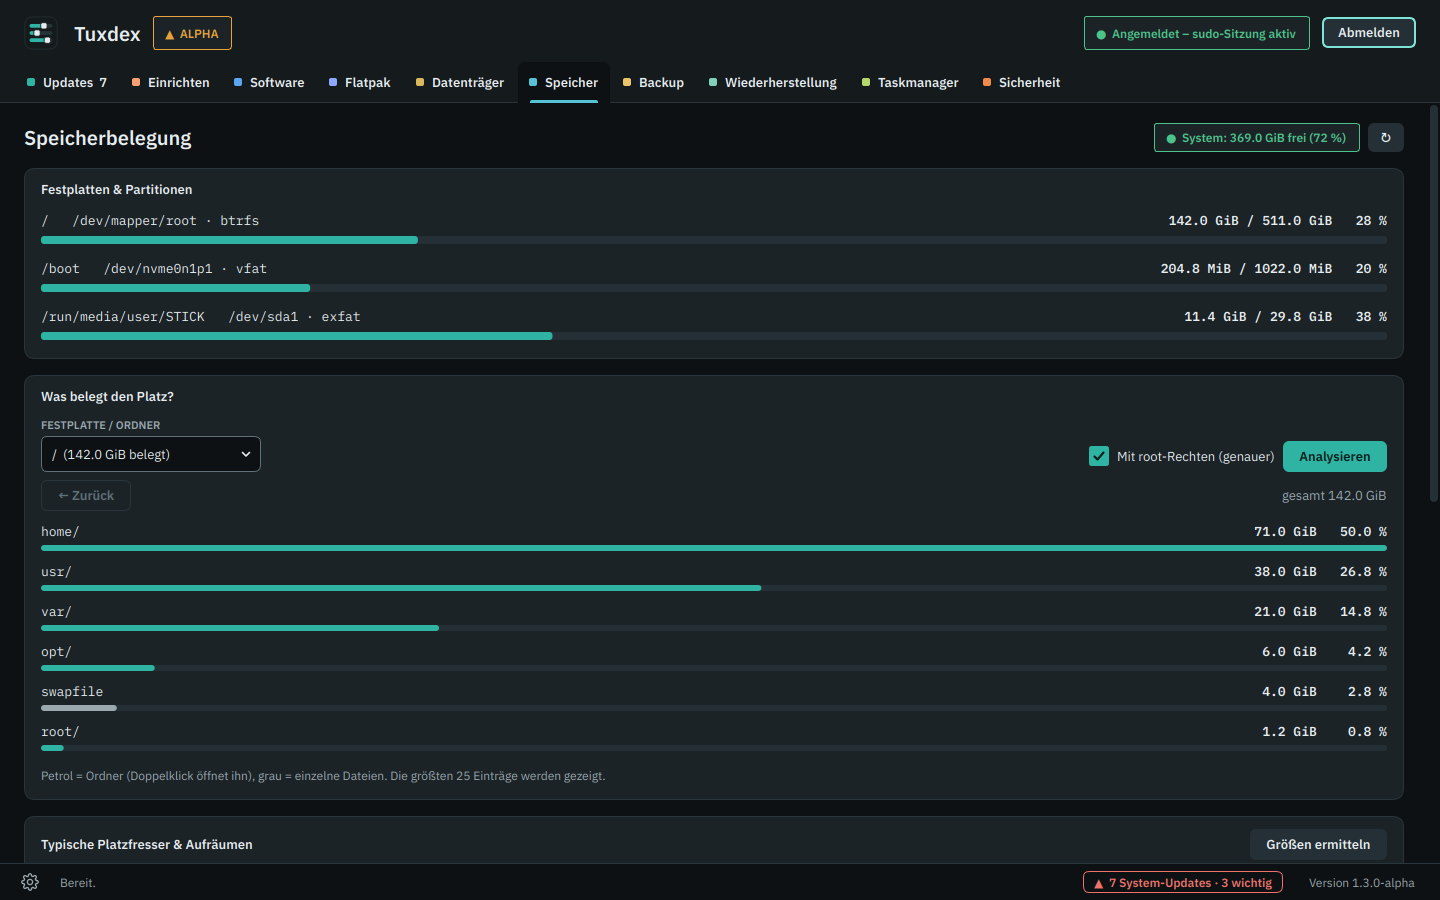
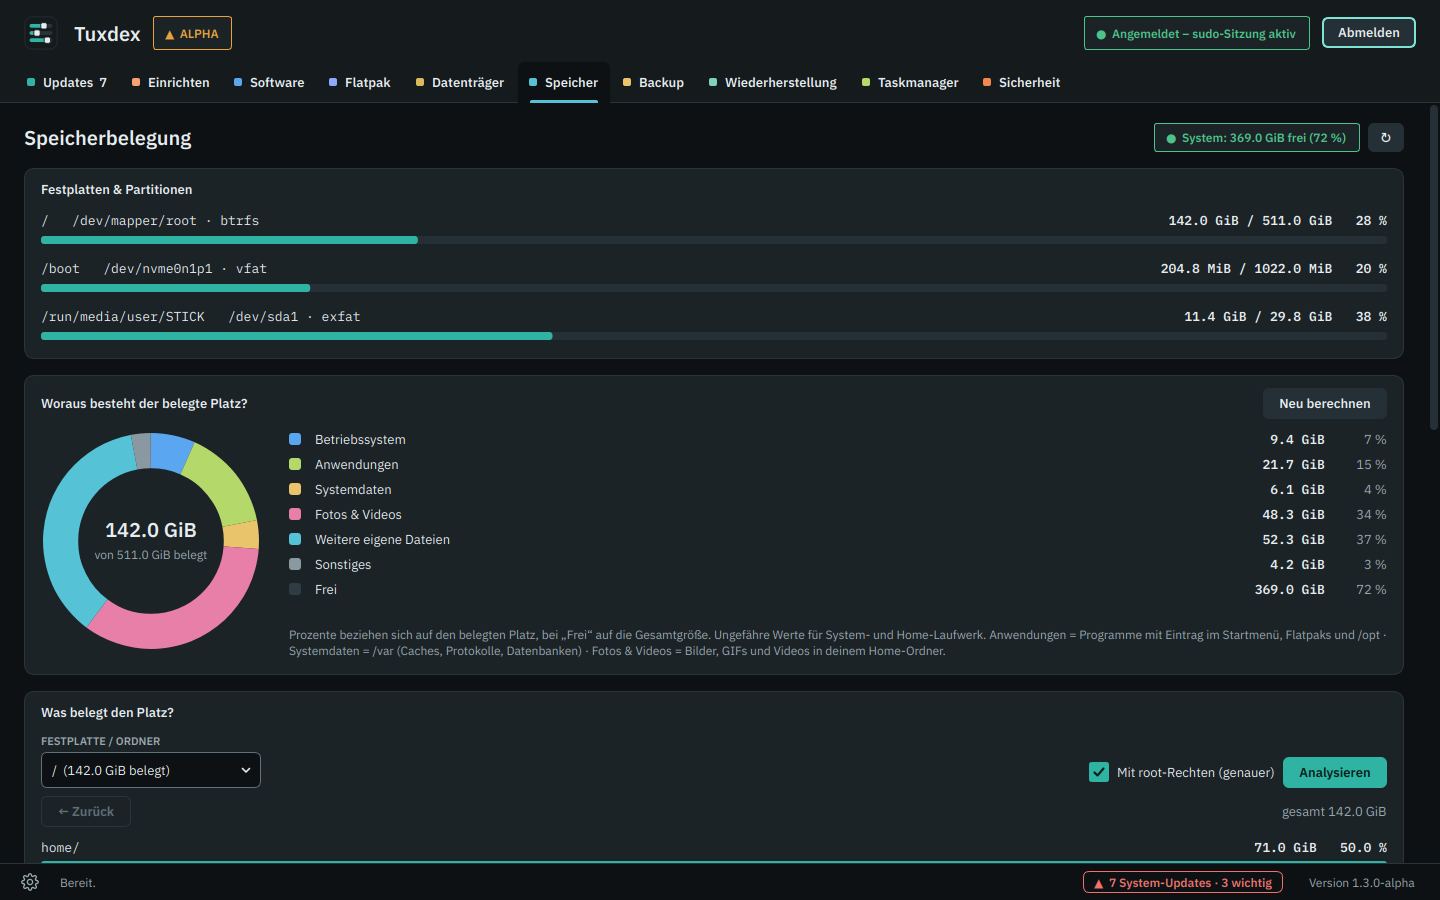
Speicher: Tortendiagramm (Betriebssystem, Anwendungen, Systemdaten, Fotos & Videos, eigene Dateien)
Claude-Session: https://claude.ai/code/session_017wi3Gc73jpwGLcggnDotTD

diff --git a/tuxdex.py b/tuxdex.py
@@ -5251,6 +5251,141 @@ def _du_size(path, use_sudo, timeout=120):
 _SIZE_UNITS = {"B": 1, "KiB": 1024, "MiB": 1024 ** 2, "GiB": 1024 ** 3, "TiB": 1024 ** 4}
 
 
+# Kategorien fürs Tortendiagramm: (Kennung, Titel, Farbe)
+STORAGE_CATS = [
+    ("os", "Betriebssystem", "#5aa6f0"),
+    ("apps", "Anwendungen", "#b5d86b"),
+    ("sys", "Systemdaten", "#e9c46a"),
+    ("media", "Fotos & Videos", "#e87fa8"),
+    ("home", "Weitere eigene Dateien", "#56c2d6"),
+    ("other", "Sonstiges", "#8a99a1"),
+    ("free", "Frei", "#2f3c43"),
+]
+MEDIA_EXT = ("jpg", "jpeg", "png", "gif", "webp", "heic", "heif", "avif", "bmp", "tif", "tiff", "svg", "raw",
+             "cr2", "cr3", "nef", "arw", "dng", "orf", "rw2", "mp4", "mkv", "mov", "avi", "webm", "m4v", "wmv",
+             "mts", "m2ts", "3gp", "flv")
+
+
+def _fs_usage(path):
+    try:
+        st = os.statvfs(path)
+        return (st.f_blocks - st.f_bfree) * st.f_frsize, st.f_bavail * st.f_frsize, os.stat(path).st_dev
+    except OSError:
+        return 0, 0, None
+
+
+def _media_bytes(home):
+    """Summe aller Bilder, GIFs und Videos im Home (versteckte Ordner wie ~/.cache zählen nicht)."""
+    names = []
+    for ext in MEDIA_EXT:
+        names += ["-iname", f"*.{ext}", "-o"]
+    cmd = ["find", home, "-xdev", "(", "-path", "*/.*", "-prune", ")", "-o", "-type", "f",
+           "(", *names[:-1], ")", "-printf", "%s\n"]
+    total = 0
+    try:
+        with subprocess.Popen(cmd, stdout=subprocess.PIPE, stderr=subprocess.DEVNULL, text=True) as p:
+            for line in p.stdout:
+                if line.strip().isdigit():
+                    total += int(line)
+    except Exception:
+        pass
+    return total
+
+
+def _gui_app_packages():
+    """pacman-Pakete, die ein Programm im Startmenü mitbringen (.desktop-Datei) – „Anwendungen“."""
+    files = [os.path.join("/usr/share/applications", f) for f in _listdir("/usr/share/applications")
+             if f.endswith(".desktop")]
+    if not files:
+        return []
+    out = _cmd_out(["env", "LC_ALL=C", "pacman", "-Qqo"] + files, timeout=60)
+    return sorted(set(out.split()))
+
+
+def _listdir(path):
+    try:
+        return os.listdir(path)
+    except OSError:
+        return []
+
+
+def storage_breakdown(use_sudo=False):
+    """{Kennung: Bytes} – ungefähre Aufteilung von System- und Home-Laufwerk."""
+    home = os.path.expanduser("~")
+    used = free = 0
+    devs = set()
+    for mp in ("/", home):
+        u, f, dev = _fs_usage(mp)
+        if dev is not None and dev not in devs:
+            devs.add(dev)
+            used, free = used + u, free + f
+    flat = sum(_du_size(p, use_sudo) or 0 for p in ("/var/lib/flatpak", os.path.join(home, ".local/share/flatpak"))
+               if os.path.isdir(p))
+    apps_pkgs = _gui_app_packages()
+    apps_pac = sum(i["size"] for i in pacman_infos(apps_pkgs).values()) if apps_pkgs else 0
+    opt = _du_size("/opt", use_sudo) or 0 if os.path.isdir("/opt") else 0
+    system_tree = sum(_du_size(p, use_sudo) or 0 for p in ("/usr", "/boot", "/etc"))
+    var = _du_size("/var", use_sudo) or 0
+    home_all = _du_size(home, False) or 0
+    media = min(_media_bytes(home), home_all)
+    res = {
+        "apps": apps_pac + flat + opt,
+        "os": max(system_tree - apps_pac, 0),
+        "sys": max(var - (flat if os.path.isdir("/var/lib/flatpak") else 0), 0),
+        "media": media,
+        "home": max(home_all - media - (_du_size(os.path.join(home, ".local/share/flatpak"), False) or 0), 0),
+    }
+    res["other"] = max(used - sum(res.values()), 0)
+    res["free"] = free
+    return res
+
+
+class DonutChart(QWidget):
+    """Ring-Diagramm: data = [(Titel, Bytes, Farbe)]; in der Mitte steht der belegte Platz."""
+
+    def __init__(self, size=220):
+        super().__init__()
+        self.data = []
+        self.center = ("", "")
+        self.setFixedSize(size, size)
+
+    def set_data(self, data, center=("", "")):
+        self.data, self.center = data, center
+        self.update()
+
+    def paintEvent(self, e):
+        p = QPainter(self)
+        p.setRenderHint(QPainter.Antialiasing)
+        w = self.width()
+        ring = w * 0.16
+        rect = QRectF(ring / 2 + 2, ring / 2 + 2, w - ring - 4, w - ring - 4)
+        total = sum(v for _, v, _ in self.data)
+        if total <= 0:
+            pen = QPen(QColor(COLORS["bg3"]), ring)
+            pen.setCapStyle(Qt.FlatCap)
+            p.setPen(pen)
+            p.drawArc(rect, 0, 360 * 16)
+        else:
+            start = 90 * 16
+            for _, v, color in self.data:
+                span = -round(v / total * 360 * 16)
+                if span:
+                    pen = QPen(QColor(color), ring)
+                    pen.setCapStyle(Qt.FlatCap)
+                    p.setPen(pen)
+                    p.drawArc(rect, start, span)
+                    start += span
+        big = QFont(FONTS["sans"], 15)
+        big.setWeight(QFont.DemiBold)
+        p.setFont(big)
+        p.setPen(QColor(COLORS["ink"]))
+        p.drawText(QRectF(0, w / 2 - 26, w, 28), Qt.AlignCenter, self.center[0])
+        p.setFont(QFont(FONTS["sans"], 9))
+        p.setPen(QColor(COLORS["muted"]))
+        p.drawText(QRectF(0, w / 2 + 2, w, 22), Qt.AlignCenter, self.center[1])
+        p.end()
+
+
 class StorageTab(Page):
     def __init__(self, app):
         super().__init__()
@@ -5268,6 +5403,26 @@ class StorageTab(Page):
         self.fs_box.setSpacing(12)
         fsp.body.addLayout(self.fs_box)
         self.lay.addWidget(fsp)
+
+        self.b_pie = Button("Neu berechnen", "ghost", self.refresh_pie)
+        pie = Panel("Woraus besteht der belegte Platz?", [self.b_pie])
+        prow = QHBoxLayout()
+        prow.setSpacing(28)
+        self.donut = DonutChart()
+        prow.addWidget(self.donut, 0, Qt.AlignTop)
+        self.pie_legend = QGridLayout()
+        self.pie_legend.setHorizontalSpacing(14)
+        self.pie_legend.setVerticalSpacing(8)
+        self.pie_legend.setColumnStretch(1, 1)
+        leg = QVBoxLayout()
+        leg.addLayout(self.pie_legend)
+        self.pie_hint = Label("", "Hint", wrap=True)
+        leg.addWidget(self.pie_hint)
+        leg.addStretch(1)
+        prow.addLayout(leg, 1)
+        pie.body.addLayout(prow)
+        self.lay.addWidget(pie)
+        self.pie_done = False
 
         ana = Panel("Was belegt den Platz?")
         top = QHBoxLayout()
@@ -5344,6 +5499,55 @@ class StorageTab(Page):
 
         self._build_cleanup_rows()
         self.refresh_fs()
+        self.refresh_pie()
+
+    # ---- Tortendiagramm -------------------------------------------------
+
+    def refresh_pie(self):
+        self.b_pie.setEnabled(False)
+        self.pie_hint.setText("Wird berechnet … das kann bei vielen Dateien eine Minute dauern.")
+        use_sudo = self.app.priv.is_authenticated_nonblocking() if hasattr(self.app, "priv") else False
+
+        def worker():
+            try:
+                data = storage_breakdown(use_sudo)
+            except Exception as ex:
+                data = {"_error": str(ex)}
+            ui(lambda: self._show_pie(data, use_sudo))
+        threading.Thread(target=worker, daemon=True).start()
+
+    def _show_pie(self, data, use_sudo):
+        self.b_pie.setEnabled(True)
+        clear_layout(self.pie_legend)
+        if "_error" in data:
+            self.pie_hint.setText(f"Konnte nicht berechnet werden: {data['_error']}")
+            return
+        used = sum(v for k, v in data.items() if k != "free")
+        total = used + data.get("free", 0)
+        # Ring zeigt nur den belegten Platz – sonst gehen die Kategorien neben „Frei“ unter
+        rows = [(title, data.get(key, 0), color) for key, title, color in STORAGE_CATS if key != "free"]
+        self.donut.set_data(list(rows), (fmt_bytes(used), f"von {fmt_bytes(total)} belegt"))
+        rows.append(("Frei", data.get("free", 0), STORAGE_CATS[-1][2]))
+        for i, (title, val, color) in enumerate(rows):
+            dot = QLabel()
+            dot.setFixedSize(12, 12)
+            dot.setStyleSheet(f"background:{color}; border-radius:3px;")
+            self.pie_legend.addWidget(dot, i, 0, Qt.AlignVCenter)
+            self.pie_legend.addWidget(Label(title), i, 1)
+            v = Label(fmt_bytes(val), "Value")
+            v.setAlignment(Qt.AlignRight | Qt.AlignVCenter)
+            self.pie_legend.addWidget(v, i, 2)
+            base = total if title == "Frei" else used
+            pct = Label(f"{val / base * 100:.0f} %" if base else "—", "Muted")
+            pct.setMinimumWidth(48)
+            pct.setAlignment(Qt.AlignRight | Qt.AlignVCenter)
+            self.pie_legend.addWidget(pct, i, 3)
+        self.pie_hint.setText(
+            "Prozente beziehen sich auf den belegten Platz, bei „Frei“ auf die Gesamtgröße. "
+            "Ungefähre Werte für System- und Home-Laufwerk. Anwendungen = Programme mit Eintrag im Startmenü, "
+            "Flatpaks und /opt · Systemdaten = /var (Caches, Protokolle, Datenbanken) · Fotos & Videos = Bilder, "
+            "GIFs und Videos in deinem Home-Ordner."
+            + ("" if use_sudo else " Ohne Anmeldung sind manche Systemordner nicht lesbar – mit Anmeldung genauer."))
 
     # ---- Dateisysteme ---------------------------------------------------
 
@@ -14111,6 +14315,19 @@ class MainWindow(QWidget):
 # --------------------------------------------------------------------------
 
 EN = {
+    'Woraus besteht der belegte Platz?': 'What is taking up the space?',
+    'Neu berechnen': 'Recalculate',
+    'Anwendungen': 'Applications',
+    'Systemdaten': 'System data',
+    'Fotos & Videos': 'Photos & videos',
+    'Weitere eigene Dateien': 'Other personal files',
+    'Sonstiges': 'Other',
+    'Frei': 'Free',
+    'von {} belegt': 'of {} used',
+    'Wird berechnet … das kann bei vielen Dateien eine Minute dauern.': 'Calculating … this can take a minute with many files.',
+    'Konnte nicht berechnet werden: {}': "Couldn't be calculated: {}",
+    'Prozente beziehen sich auf den belegten Platz, bei „Frei“ auf die Gesamtgröße. Ungefähre Werte für System- und Home-Laufwerk. Anwendungen = Programme mit Eintrag im Startmenü, Flatpaks und /opt · Systemdaten = /var (Caches, Protokolle, Datenbanken) · Fotos & Videos = Bilder, GIFs und Videos in deinem Home-Ordner.': 'Percentages refer to the used space, for “Free” to the total size. Approximate values for the system and home drive. Applications = programs with a start menu entry, Flatpaks and /opt · System data = /var (caches, logs, databases) · Photos & videos = images, GIFs and videos in your home folder.',
+    'Prozente beziehen sich auf den belegten Platz, bei „Frei“ auf die Gesamtgröße. Ungefähre Werte für System- und Home-Laufwerk. Anwendungen = Programme mit Eintrag im Startmenü, Flatpaks und /opt · Systemdaten = /var (Caches, Protokolle, Datenbanken) · Fotos & Videos = Bilder, GIFs und Videos in deinem Home-Ordner. Ohne Anmeldung sind manche Systemordner nicht lesbar – mit Anmeldung genauer.': "Percentages refer to the used space, for “Free” to the total size. Approximate values for the system and home drive. Applications = programs with a start menu entry, Flatpaks and /opt · System data = /var (caches, logs, databases) · Photos & videos = images, GIFs and videos in your home folder. Without logging in, some system folders can't be read – more accurate when logged in.",
     'Installieren ({})': 'Install ({})',
     'Installieren (pacman)': 'Install (pacman)',
     'Installieren (Flatpak)': 'Install (Flatpak)',

diff --git a/tools/screenshots.py b/tools/screenshots.py
@@ -496,6 +496,10 @@ t.snapshot_env = lambda: {"fs": "btrfs", "home_separate": True, "tool": "snapper
 
 
 t.multilib_enabled = lambda: True
+_G = 1024 ** 3
+t.storage_breakdown = lambda use_sudo=False: {"os": 9.4 * _G, "apps": 21.7 * _G, "sys": 6.1 * _G,
+                                              "media": 48.3 * _G, "home": 52.3 * _G, "other": 4.2 * _G,
+                                              "free": 369.0 * _G}
 _APPS = {"browser": ("firefox.desktop", [("Chromium", "chromium.desktop"), ("Firefox", "firefox.desktop")]),
          "mail": ("thunderbird.desktop", [("Thunderbird", "thunderbird.desktop")]),
          "pdf": ("okularApplication_pdf.desktop", [("Firefox", "firefox.desktop"),

diff --git a/README.md b/README.md
@@ -61,7 +61,7 @@ Tuxdex ist ein **Baukasten**: Unter **Einstellungen → Module** wählst du selb
 | **Software** | Alle Pakete mit Icon, Version, Größe, Quelle/Ort und Installationsdatum · per Kästchen auswählen und gemeinsam deinstallieren · installieren aus pacman, AUR (paru) oder Flathub |
 | **Flatpak** | Rechte jeder Flatpak-App per Schalter – Netzwerk, Dateien & Ordner, Geräte, Ton, Bildschirm, Umgebungsvariablen, Portal-Freigaben · Regeln für alle Apps · riskante Rechte sind markiert, Änderungen hervorgehoben · Flathub einrichten, Apps starten, aktualisieren, deinstallieren |
 | **Datenträger** | Laufwerke und Partitionen als Baum · Einhängen, Aushängen, Umbenennen, Prüfen, **Formatieren** (ext4, btrfs, xfs, exFAT, FAT32, NTFS), sicher entfernen · erkennt neue USB-Sticks automatisch · System-Partitionen sind geschützt |
-| **Speicher** | Belegung je Festplatte · „Was belegt den Platz?“ mit Drill-down in Ordner · Aufräumen: Paket-Cache, verwaiste Pakete, Journal, Papierkorb, Flatpak |
+| **Speicher** | Belegung je Festplatte · **Tortendiagramm**: Betriebssystem, Anwendungen, Systemdaten, Fotos & Videos, eigene Dateien · „Was belegt den Platz?“ mit Drill-down in Ordner · Aufräumen: Paket-Cache, verwaiste Pakete, Journal, Papierkorb, Flatpak |
 | **Backup** | Snapshots (versioniert, platzsparend), Spiegel oder komprimierte Archive (zstd/xz/gzip, optional mit Passwort) · **mehrere Ziele gleichzeitig** · Prüfung nach dem Schreiben · eigene Namen mit Datum ([so geht’s](#backups-benennen)) · alte Versionen automatisch aufräumen · wiederherstellen · Zeitplan täglich/wöchentlich |
 | **Wiederherstellung** | System-Snapshots mit snapper (btrfs) oder Timeshift · **Snapshot vor jedem Update** · Liste, erstellen, löschen · **auf einen Stand zurücksetzen** per Klick |
 | **Swap** *(anfangs ausgeblendet)* | Swapfile anlegen und entfernen, Swappiness einstellen |

diff --git a/README.en.md b/README.en.md
@@ -61,7 +61,7 @@ Tuxdex is a **toolkit**: under **Settings → Modules** you choose which tools a
 | **Software** | All packages with icon, version, size, source/location and install date · select with checkboxes and uninstall together · install from pacman, AUR (paru) or Flathub |
 | **Flatpak** | Permissions of every Flatpak app with switches – network, files & folders, devices, sound, display, environment variables, portal permissions · rules for all apps · risky permissions are marked, changes highlighted · set up Flathub, start, update and uninstall apps |
 | **Drives** | Drives and partitions as a tree · mount, unmount, rename, check, **format** (ext4, btrfs, xfs, exFAT, FAT32, NTFS), safely remove · detects new USB sticks automatically · system partitions are protected |
-| **Storage** | Usage per drive · “What is using the space?” with drill-down into folders · cleanup: package cache, orphaned packages, journal, trash, Flatpak |
+| **Storage** | Usage per drive · **pie chart**: operating system, applications, system data, photos & videos, personal files · “What is using the space?” with drill-down into folders · cleanup: package cache, orphaned packages, journal, trash, Flatpak |
 | **Backup** | Snapshots (versioned, space-saving), mirror or compressed archives (zstd/xz/gzip, optionally with password) · **several targets at once** · verification after writing · custom names with date ([how it works](#naming-backups)) · old versions cleaned up automatically · restore · daily/weekly schedule |
 | **Restore** | System snapshots with snapper (btrfs) or Timeshift · **snapshot before every update** · list, create, delete · **roll back to a state** with one click |
 | **Swap** *(hidden at first)* | Create and remove a swap file, set swappiness |

diff --git a/CHANGELOG.md b/CHANGELOG.md
@@ -8,6 +8,7 @@ Systemwiederherstellung und Einrichten für Umsteiger.
 - **Neues Modul „Einrichten“**: Basics mit einem Klick – Schriften für Office-Dokumente, Audio- und Video-Codecs, Energieprofile mit Umschalter (Energiesparen, Ausgewogen, Leistung). Dazu **„Ersatz für Windows-Programme“**: „Photoshop“, „Office“, „Outlook“ & Co. eingeben und die passende Linux-Alternative direkt installieren (Arch-Paketquellen oder Flathub).
 - **Standard-Apps**: Browser, E-Mail, PDF, Bilder, Videos, Musik und Textdateien per Auswahl festlegen (gilt sofort, ohne root).
 - **Spiele-Setup**: Steam, GameMode, MangoHud, Lutris, Heroic, Bottles und Wine einzeln oder als Empfehlung installieren. Fehlt die 32-Bit-Unterstützung (multilib), schaltet Tuxdex sie auf Wunsch ein (mit Sicherung der pacman.conf und anschließendem vollem Update) – sonst kommt Steam von Flathub. Dazu ein Hinweis, dass Spiele mit Kernel-Anti-Cheat (Valorant, League of Legends, Fortnite) nicht laufen.
+- **Speicher: Tortendiagramm** – woraus der belegte Platz besteht: Betriebssystem, Anwendungen, Systemdaten, Fotos & Videos (inkl. GIFs), weitere eigene Dateien und Sonstiges, dazu der freie Platz. Ungefähre Werte, mit Anmeldung genauer.
 - **Quelle immer sichtbar**: Jeder Installieren-Knopf zeigt, woher das Programm kommt – „Installieren (pacman)“, „(Flatpak)“ oder „(AUR)“, auch im Software-Tab und bei den Sicherheits-Werkzeugen.
 - **CachyOS**: CachyOS-Kernel (linux-cachyos, -bore, -lts, -hardened …) werden als Kernel erkannt – für Update-Markierung, Neustart-Hinweis, Versionsstand und Checkliste.
 

diff --git a/CHANGELOG.en.md b/CHANGELOG.en.md
@@ -10,6 +10,7 @@ System restore and setup for switchers.
 - **New module "Setup"**: one-click basics – fonts for Office documents, audio and video codecs, power profiles with a switch (power saver, balanced, performance). Plus **"Alternatives for Windows programs"**: type "Photoshop", "Office", "Outlook" and so on and install the matching Linux alternative right away (Arch repositories or Flathub).
 - **Default apps**: choose browser, email, PDF, images, videos, music and text files (applies right away, no root).
 - **Gaming setup**: install Steam, GameMode, MangoHud, Lutris, Heroic, Bottles and Wine one by one or as a recommended set. If 32-bit support (multilib) is missing, Tuxdex turns it on when asked (backing up pacman.conf, followed by a full update) – otherwise Steam comes from Flathub. Plus a note that games with kernel anti-cheat (Valorant, League of Legends, Fortnite) don't run.
+- **Storage: pie chart** – what the used space consists of: operating system, applications, system data, photos & videos (incl. GIFs), other personal files and other, plus free space. Approximate values, more accurate when logged in.
 - **Source always visible**: every install button shows where the program comes from – "Install (pacman)", "(Flatpak)" or "(AUR)", also in the Software tab and for the security tools.
 - **CachyOS**: CachyOS kernels (linux-cachyos, -bore, -lts, -hardened …) are recognized as kernels – for update marking, restart notice, version status and checklist.
 
